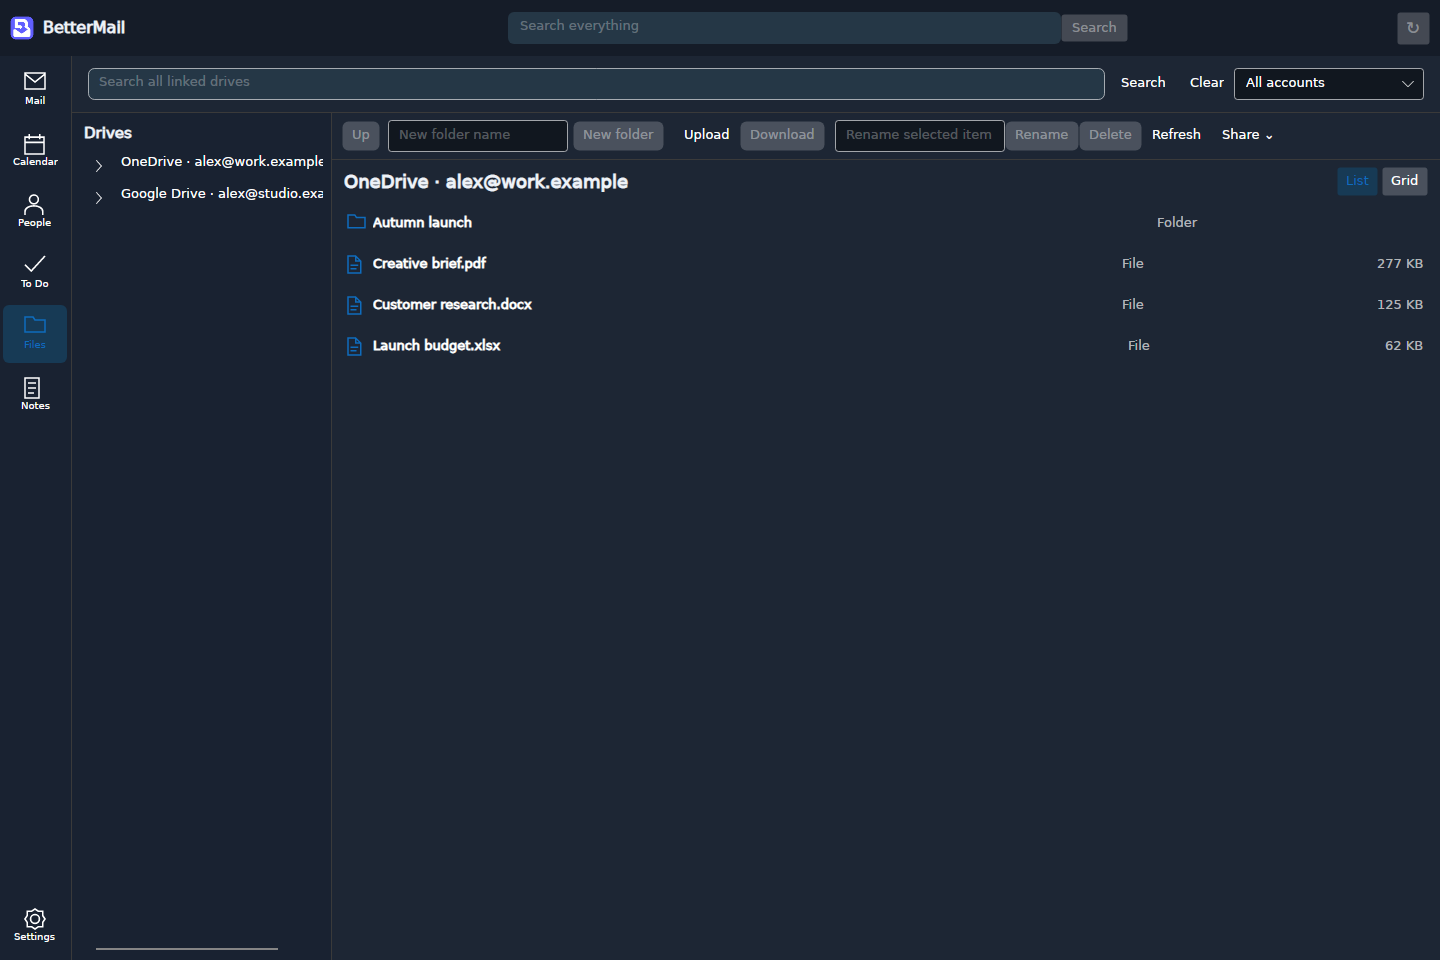
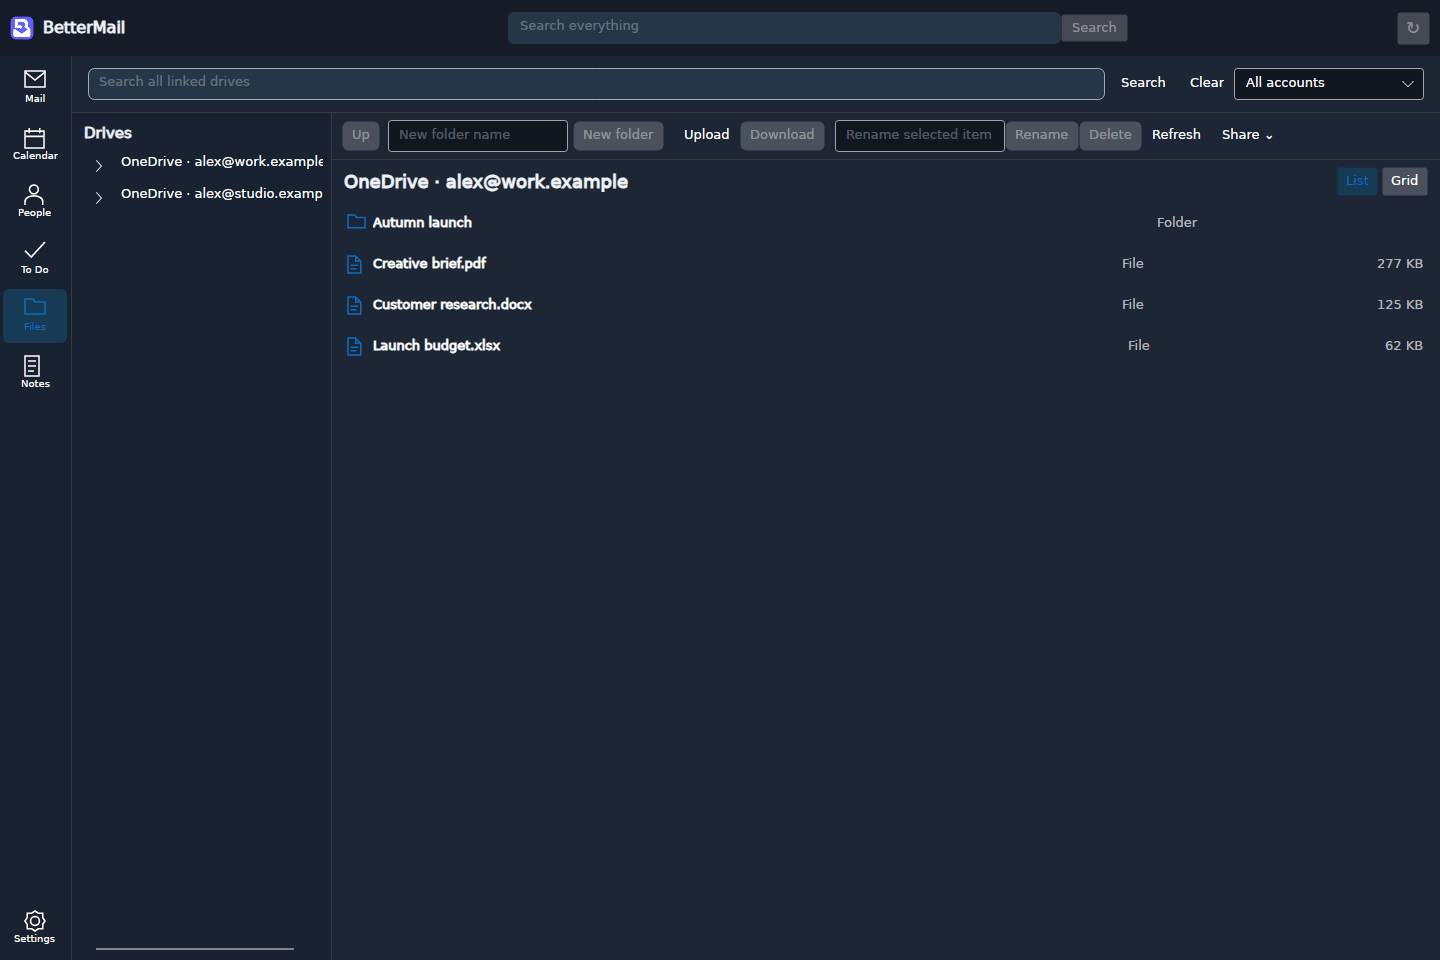
Address workspace UI review: rail fit, preview timezone and provider claims

diff --git a/tools/BetterMail.UiPreview/Program.cs b/tools/BetterMail.UiPreview/Program.cs
@@ -40,7 +40,7 @@ internal static class Program
         vm.Accounts.Add(account);
         vm.Mailboxes.Add(mailbox);
         vm.ContactOwners.Add(new(account, mailbox));
-        vm.Accounts.Add(account with { ProviderId = "google-workspace", AccountId = "studio", EmailAddress = "alex@studio.example", DisplayName = "Studio", Capabilities = ProviderCapabilities.Mail | ProviderCapabilities.Files });
+        vm.Accounts.Add(account with { ProviderId = "microsoft365", AccountId = "studio", EmailAddress = "alex@studio.example", DisplayName = "Studio", Capabilities = ProviderCapabilities.Mail | ProviderCapabilities.Files });
         await vm.InitializeAsync();
         var folders = new[] { "Inbox", "Sent", "Drafts", "Archive", "Trash" }.Select(name => new MailFolderItem(new(mailbox.Id, name.ToLowerInvariant(), name, name == "Inbox" ? 3 : 0, 8), mailbox.DisplayName)).ToArray();
         foreach (var folder in folders) vm.Folders.Add(folder);
@@ -85,6 +85,14 @@ internal static class Program
             await Shot(name + "-dark");
             Application.Current.RequestedThemeVariant = ThemeVariant.Light;
         }
+        window.Width = 1024;
+        window.Height = 480;
+        await Shot("minimum-height");
+        var rail = window.FindControl<Grid>("AppRailLayout")!;
+        var modules = window.FindControl<StackPanel>("RailModules")!;
+        var settings = window.FindControl<Button>("RailSettings")!;
+        if (modules.Bounds.Bottom > settings.Bounds.Top || settings.Bounds.Bottom > rail.Bounds.Height)
+            throw new InvalidOperationException("Navigation overlaps or clips at the minimum window height.");
         window.Width = 390;
         window.Height = 844;
         await ((AsyncCommand)vm.ShowUnifiedInboxCommand).ExecuteAsync();
@@ -107,7 +115,7 @@ internal static class Program
 
 public class PreviewProvider : DispatchProxy
 {
-    public static readonly DateTimeOffset Today = new(DateTime.Today, TimeSpan.Zero);
+    public static readonly DateTimeOffset Today = new(DateTime.Today);
     public static readonly MailAccount Account = new("microsoft365", "work", "sample", "alex@work.example", "Alex Morgan", ProviderCapabilities.Mail | ProviderCapabilities.Calendar | ProviderCapabilities.Contacts | ProviderCapabilities.Tasks | ProviderCapabilities.Files | ProviderCapabilities.Notes);
     protected override object? Invoke(MethodInfo? method, object?[]? args)
     {

diff --git a/docs/ui/README.md b/docs/ui/README.md
@@ -1,6 +1,6 @@
 # Workspace UI review
 
-This change applies a shared visual treatment to Mail, Calendar, Files, Notes, People, and To Do. It is based on the reliability/onboarding branch in PR #2.
+This change applies a shared visual treatment to Mail, Calendar, Files, Notes, People, and To Do. It builds on the reliability/onboarding changes merged in PR #2.
 
 ## Design references
 
@@ -11,11 +11,11 @@ These are observed patterns in established products, not a formal UI standard:
 - [Google Drive](https://mobbin.com/screens/4e58234e-a5d7-4119-8ab6-f4d7dbc4f20d): consistent navigation and search, recognizable file icons, and aligned file metadata.
 - [Skiff Calendar](https://mobbin.com/screens/14bee891-46ef-4335-b911-15b68ada21f7): compact controls around a spacious weekly grid.
 
-BetterMail keeps its existing workflows and commands. The implementation introduces labeled vector navigation, light/dark surface colors, consistent search and action styling, keyboard-visible mail quick actions, portable file icons, readable Google Drive labels, and a wider calendar sidebar. The empty mail reader's visibility now binds to the main window rather than the nested conversation model, avoiding overlapping placeholders.
+BetterMail keeps its existing workflows and commands. The implementation introduces labeled vector navigation, light/dark surface colors, consistent search and action styling, keyboard-visible mail quick actions, portable file icons, and a wider calendar sidebar. The empty mail reader's visibility now binds to the main window rather than the nested conversation model, avoiding overlapping placeholders.
 
 ## Actual app screenshots
 
-Captured from the real Avalonia views on Linux at 1440 × 960 using fictional offline data. Mail and Notes show overview/navigation states; the capture environment does not reliably render the embedded native web content. These are screenshots, not mockups. Disabled controls reflect the read-only fixture. No connected account data or credentials are used.
+Captured from the real Avalonia views on Linux at 1440 × 960 using fictional offline data. Mail and Notes show overview/navigation states; the capture environment does not reliably render the embedded native web content. These are screenshots, not mockups. Files uses Microsoft 365/OneDrive fixtures; Google Drive integration is not implemented. Disabled controls reflect the read-only fixture. No connected account data or credentials are used.
 
 | Workspace | Light | Dark |
 | --- | --- | --- |
@@ -26,7 +26,7 @@ Captured from the real Avalonia views on Linux at 1440 × 960 using fictional of
 | People | [Screenshot](screenshots/people-light.png) | [Screenshot](screenshots/people-dark.png) |
 | To Do | [Screenshot](screenshots/todos-light.png) | [Screenshot](screenshots/todos-dark.png) |
 
-[390-pixel mail layout](screenshots/mail-phone.png)
+[390-pixel mail layout](screenshots/mail-phone.png) · [480-pixel minimum height](screenshots/minimum-height.png)
 
 ## Reproduce
 
@@ -37,4 +37,4 @@ dotnet build tools/BetterMail.UiPreview -c Release -m:1
 xvfb-run -a -s '-screen 0 1440x960x24' dotnet run --project tools/BetterMail.UiPreview -c Release --no-build -- docs/ui/screenshots
 ```
 
-The preview is a separate development tool, not a production app mode. It loads the real application resources and view models with an offline provider that rejects writes, uses a temporary profile, and captures X11 pixels (no additional Python packages). Calendar samples use the current day so they remain visible when regenerated. The preview project is Linux-only and is built by Linux CI; it is not shipped in application packages.
+The preview is a separate development tool, not a production app mode. It loads the real application resources and view models with an offline provider that rejects writes, uses a temporary profile, and captures X11 pixels (no additional Python packages). Calendar samples use the current local day and offset so they remain visible when regenerated. The capture also checks that navigation neither overlaps nor clips at the 480-pixel minimum window height. The preview project is Linux-only and is built by Linux CI; it is not shipped in application packages.
